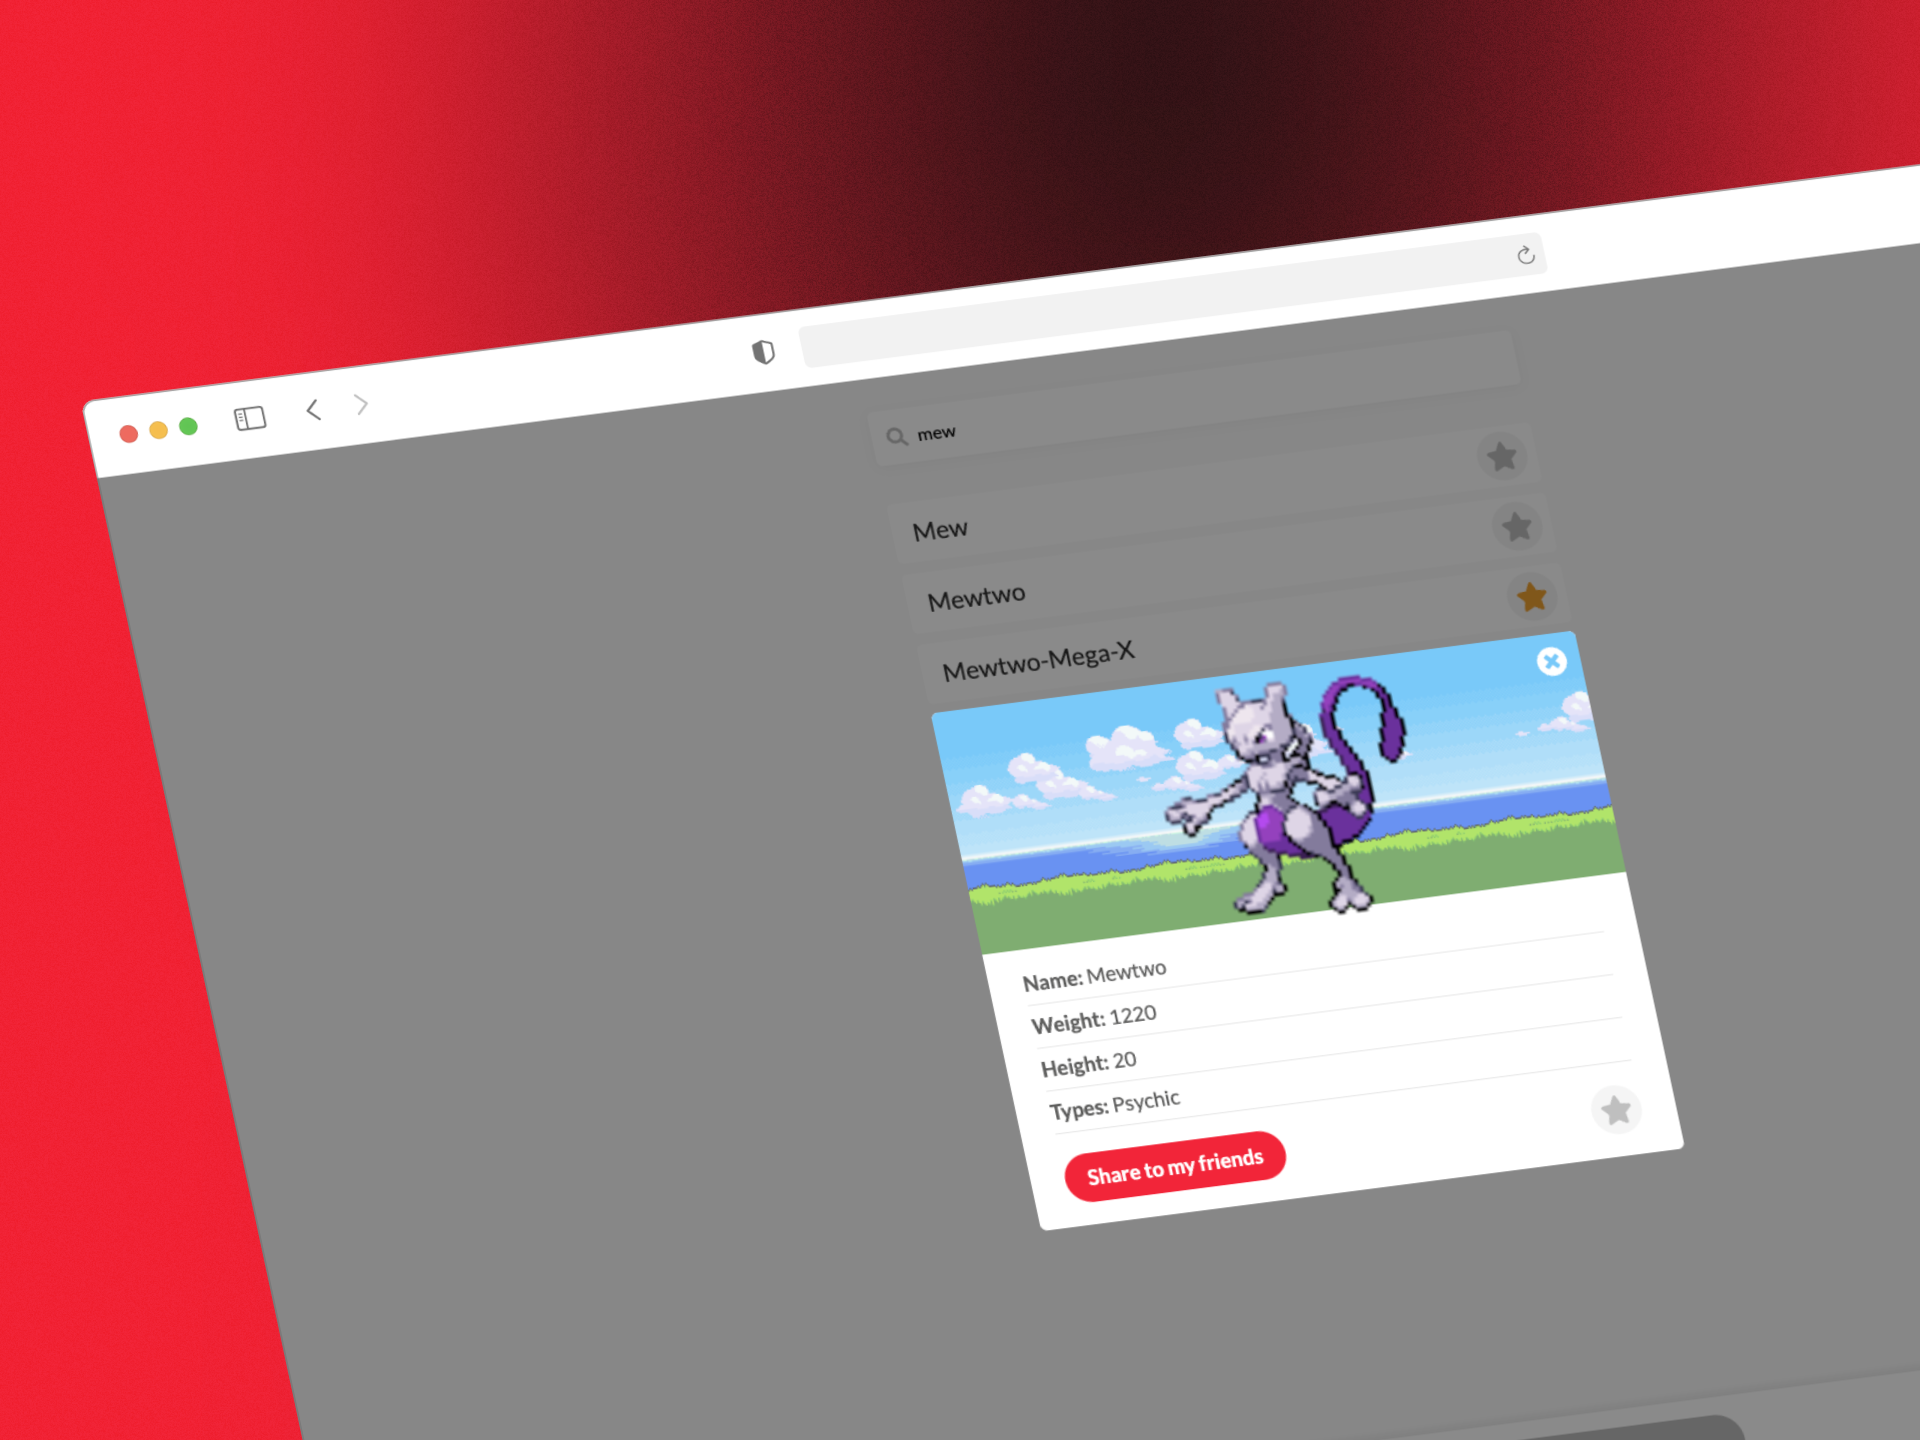
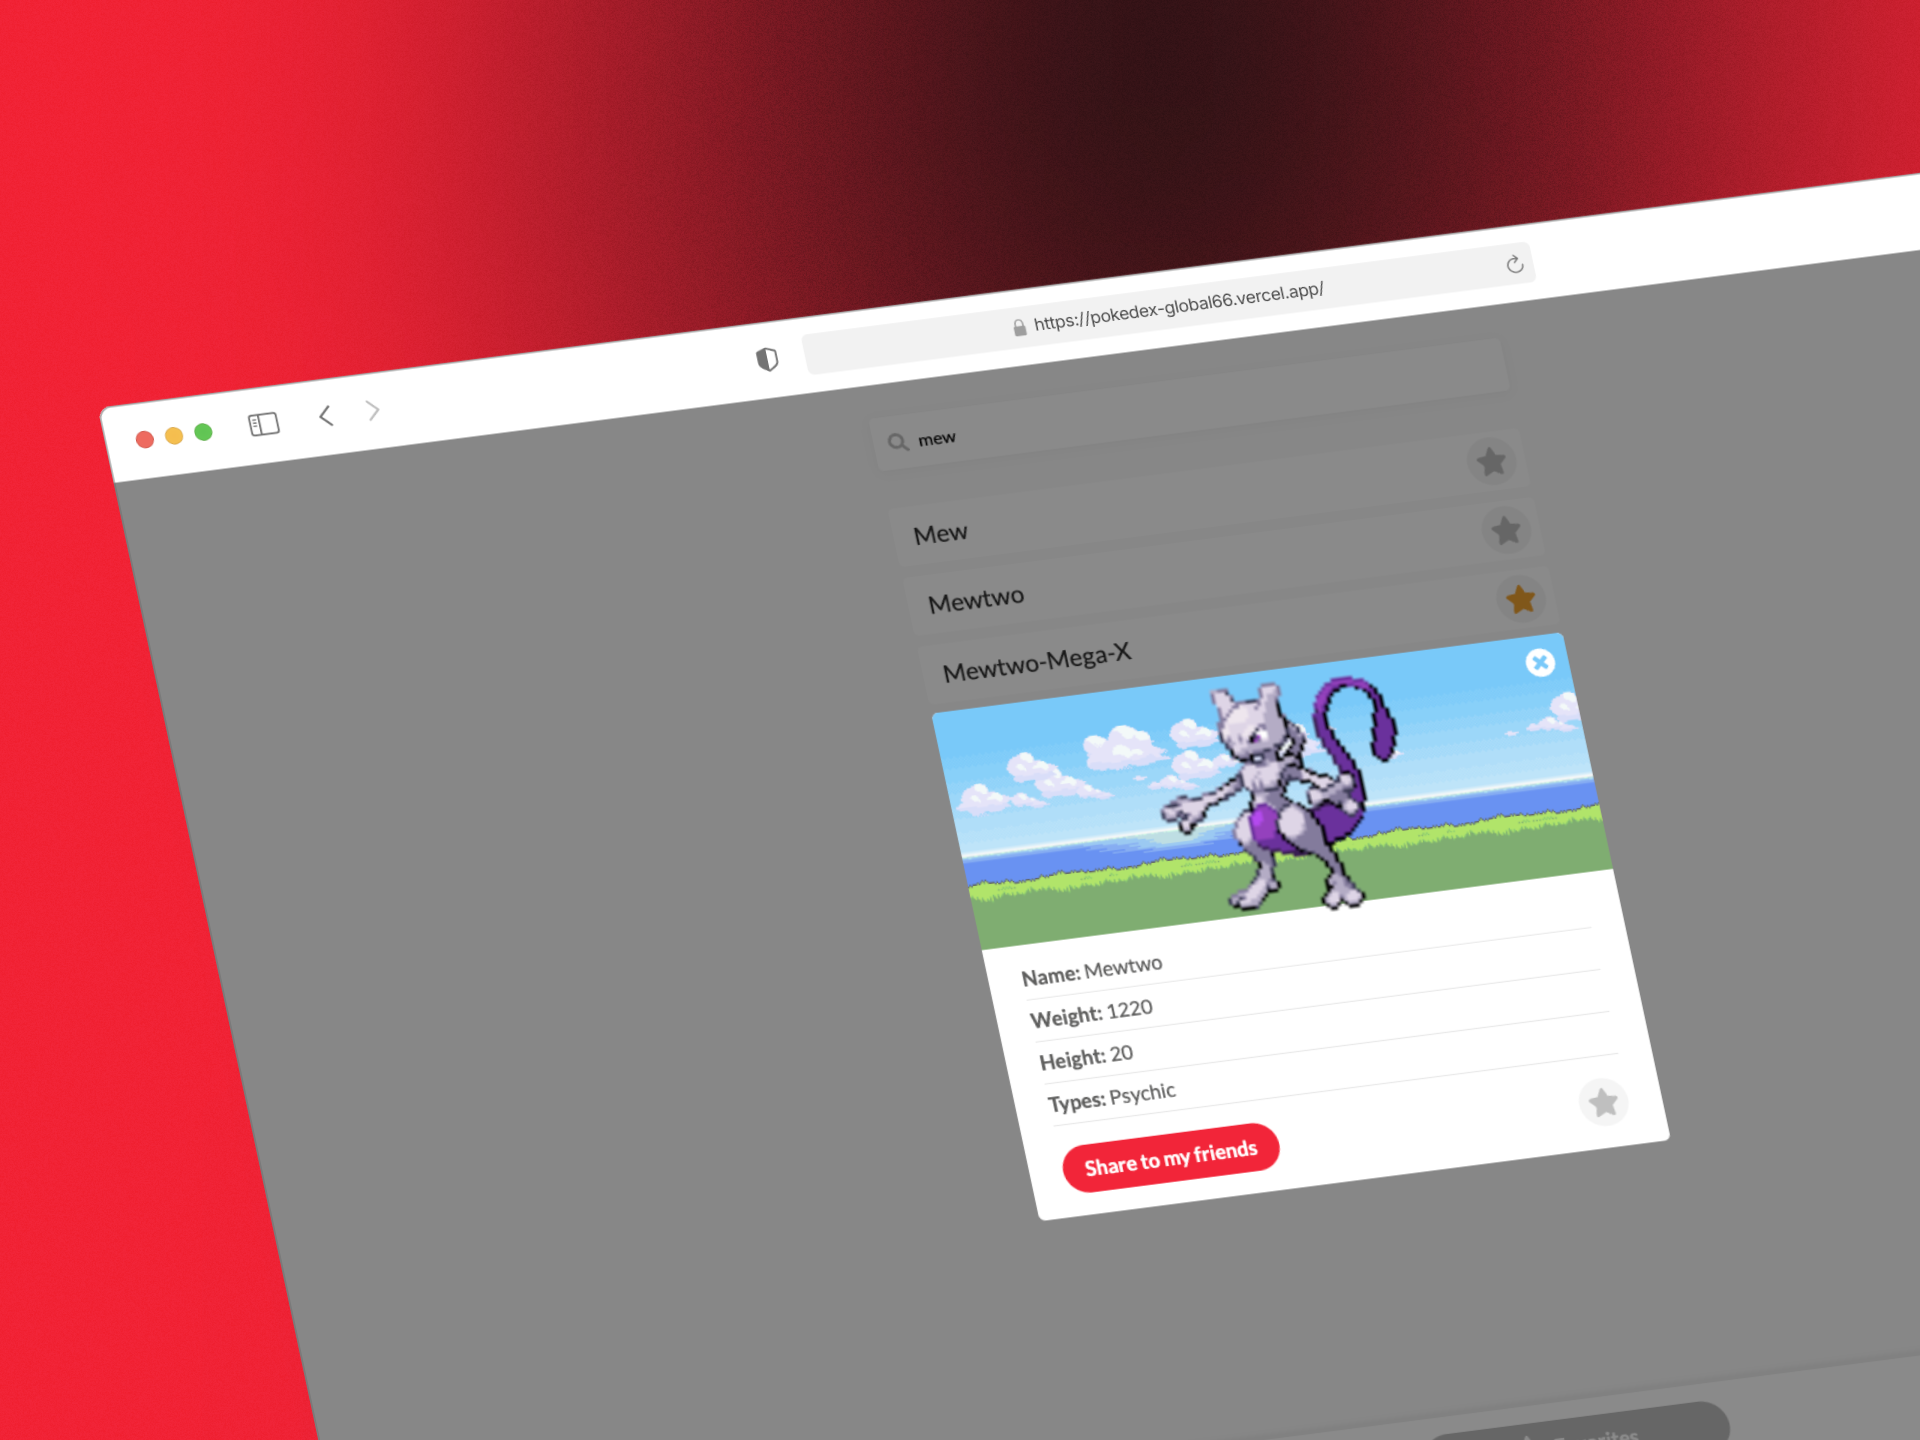
Se realiza cambios en la imagen y se pone etiqueta para website

diff --git a/README.md b/README.md
@@ -2,12 +2,12 @@
 
 Este proyecto es una prueba técnica desarrollada con Vue.js para Global66, centrada en una Pokédex interactiva. Los usuarios pueden explorar una lista de pokémons, guardarlos en favoritos y realizar búsquedas difusas para encontrar pokémons de manera eficiente.
 
-<img style="border-radius: 20px;" src="https://github.com/JoanRojasMejia/portfolio/blob/main/public/screenshot.png?raw=true">
+<img style="border-radius: 20px;" src="https://raw.githubusercontent.com/JoanRojasMejia/prueba-global66/refs/heads/main/public/screen-web.webp">
 
 <div align="center">
 
 ![Static Badge](https://img.shields.io/badge/author-joan_rojas-%237849F7?style=for-the-badge)
-![Website](https://img.shields.io/website?url=https%3A%2F%2Fjoan-rojas.vercel.app%2F&style=for-the-badge&color=%23166445)
+![Website](https://img.shields.io/website?url=https%3A%2F%2Fpokedex-global66.vercel.app%2F&up_color=%23156545&style=for-the-badge)
 </div>
 
 ## 🛠 Tecnologías y librerías utilizadas
